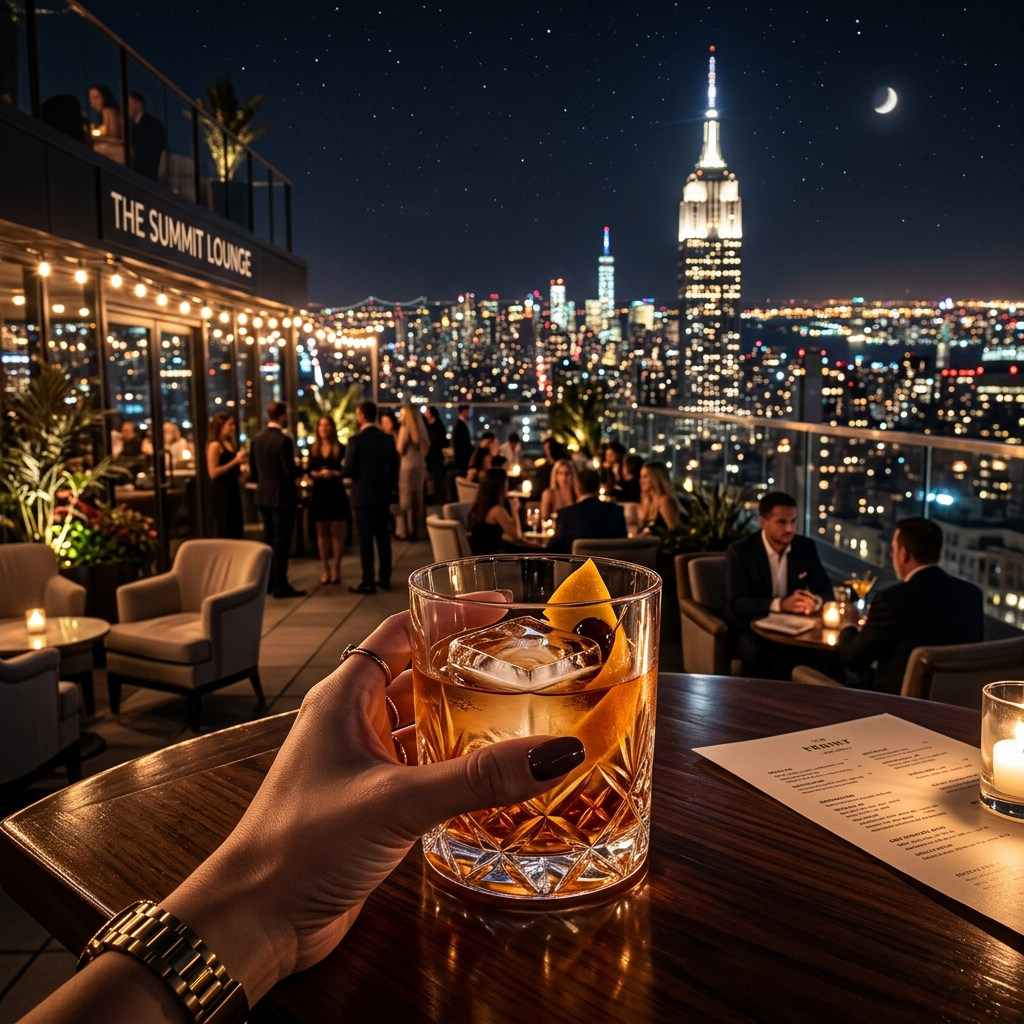
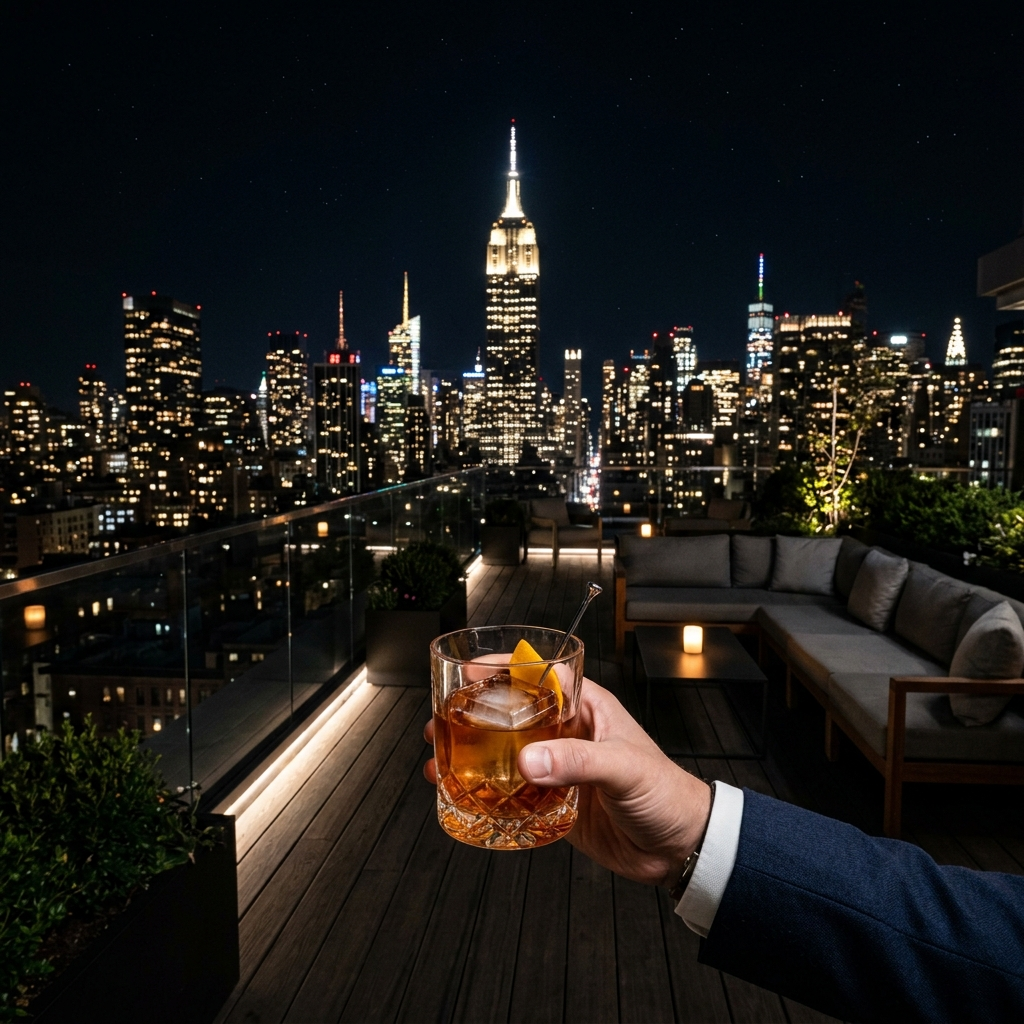
feat: implement Hero component with custom global styles and background asset

diff --git a/src/components/luxora/Hero.tsx b/src/components/luxora/Hero.tsx
@@ -10,23 +10,23 @@ export default function Hero() {
         <img
           src="/luxora_hero_bg.png"
           alt="Luxury rooftop cityscape at night with a hand holding a cocktail"
-          className="w-full h-full object-cover object-[center_35%]"
+          className="w-full h-full object-cover object-center"
         />
         {/* Multi-layer premium overlay */}
-        <div className="absolute inset-0 bg-gradient-to-b from-black/80 via-black/45 to-luxora-bg" />
-        <div className="absolute inset-0 bg-black/25" />
+        <div className="absolute inset-0 bg-gradient-to-b from-black/70 via-black/30 to-luxora-bg" />
+        <div className="absolute inset-0 bg-black/15" />
       </div>
 
       {/* Centered Content */}
-      <div className="relative z-10 max-w-4xl mx-auto px-6 flex flex-col items-center text-center">
+      <div className="relative z-10 max-w-5xl mx-auto px-6 flex flex-col items-center text-center">
         {/* Headline */}
         <motion.h1
           initial={{ opacity: 0, y: 30 }}
           animate={{ opacity: 1, y: 0 }}
           transition={{ duration: 1, delay: 0.3, ease: [0.22, 1, 0.36, 1] }}
-          className="font-[var(--font-playfair)] text-4xl sm:text-6xl md:text-7xl lg:text-[5.5rem] font-medium tracking-wider leading-[1.1] mb-8 text-gold-gradient"
+          className="font-playfair text-3xl sm:text-5xl md:text-6xl lg:text-[4.2rem] xl:text-[4.8rem] font-normal tracking-[0.05em] leading-[1.2] mb-6 text-gold-gradient"
         >
-          ELEVATE YOUR NIGHTS <br /> ABOVE THE CITY
+          ELEVATE YOUR NIGHTS <br className="hidden md:block" /> ABOVE THE CITY
         </motion.h1>
 
         {/* Subheading */}
@@ -34,7 +34,7 @@ export default function Hero() {
           initial={{ opacity: 0, y: 20 }}
           animate={{ opacity: 1, y: 0 }}
           transition={{ duration: 0.8, delay: 0.6 }}
-          className="text-white/80 text-sm sm:text-base md:text-lg max-w-2xl leading-relaxed mb-10 font-[var(--font-inter)] tracking-wide"
+          className="text-white/70 text-xs sm:text-sm md:text-base font-inter font-light max-w-xl md:max-w-2xl leading-relaxed mb-8 tracking-[0.03em]"
         >
           Discover Luxora, the premier rooftop lounge and event venue offering
           panoramic city views, exquisite cocktails, and unparalleled events.
@@ -49,13 +49,13 @@ export default function Hero() {
         >
           <a
             href="#explore"
-            className="bg-gold-gradient text-black font-semibold text-xs sm:text-sm tracking-[0.2em] uppercase px-10 py-4 rounded-full hover:scale-105 hover:shadow-[0_0_25px_rgba(212,175,55,0.4)] transition-all duration-300"
+            className="bg-gold-gradient text-black font-semibold text-xs tracking-[0.2em] uppercase px-10 py-4 rounded-full hover:scale-105 hover:shadow-[0_0_20px_rgba(212,175,55,0.4)] transition-all duration-300"
           >
             Explore The Lounge
           </a>
           <a
             href="#reservation"
-            className="group text-white/90 hover:text-luxora-gold text-xs tracking-[0.2em] uppercase transition-colors duration-300 flex items-center gap-1.5 font-medium mt-2"
+            className="group text-white/90 hover:text-luxora-gold text-xs tracking-[0.2em] uppercase transition-colors duration-300 flex items-center gap-1.5 font-medium mt-1"
           >
             Book An Event <span className="group-hover:translate-x-1 transition-transform duration-300">→</span>
           </a>

diff --git a/src/app/globals.css b/src/app/globals.css
@@ -8,6 +8,8 @@
   --color-foreground: var(--foreground);
   --font-sans: var(--font-geist-sans);
   --font-mono: var(--font-geist-mono);
+  --font-playfair: var(--font-playfair);
+  --font-inter: var(--font-inter);
   --color-sidebar-ring: var(--sidebar-ring);
   --color-sidebar-border: var(--sidebar-border);
   --color-sidebar-accent-foreground: var(--sidebar-accent-foreground);